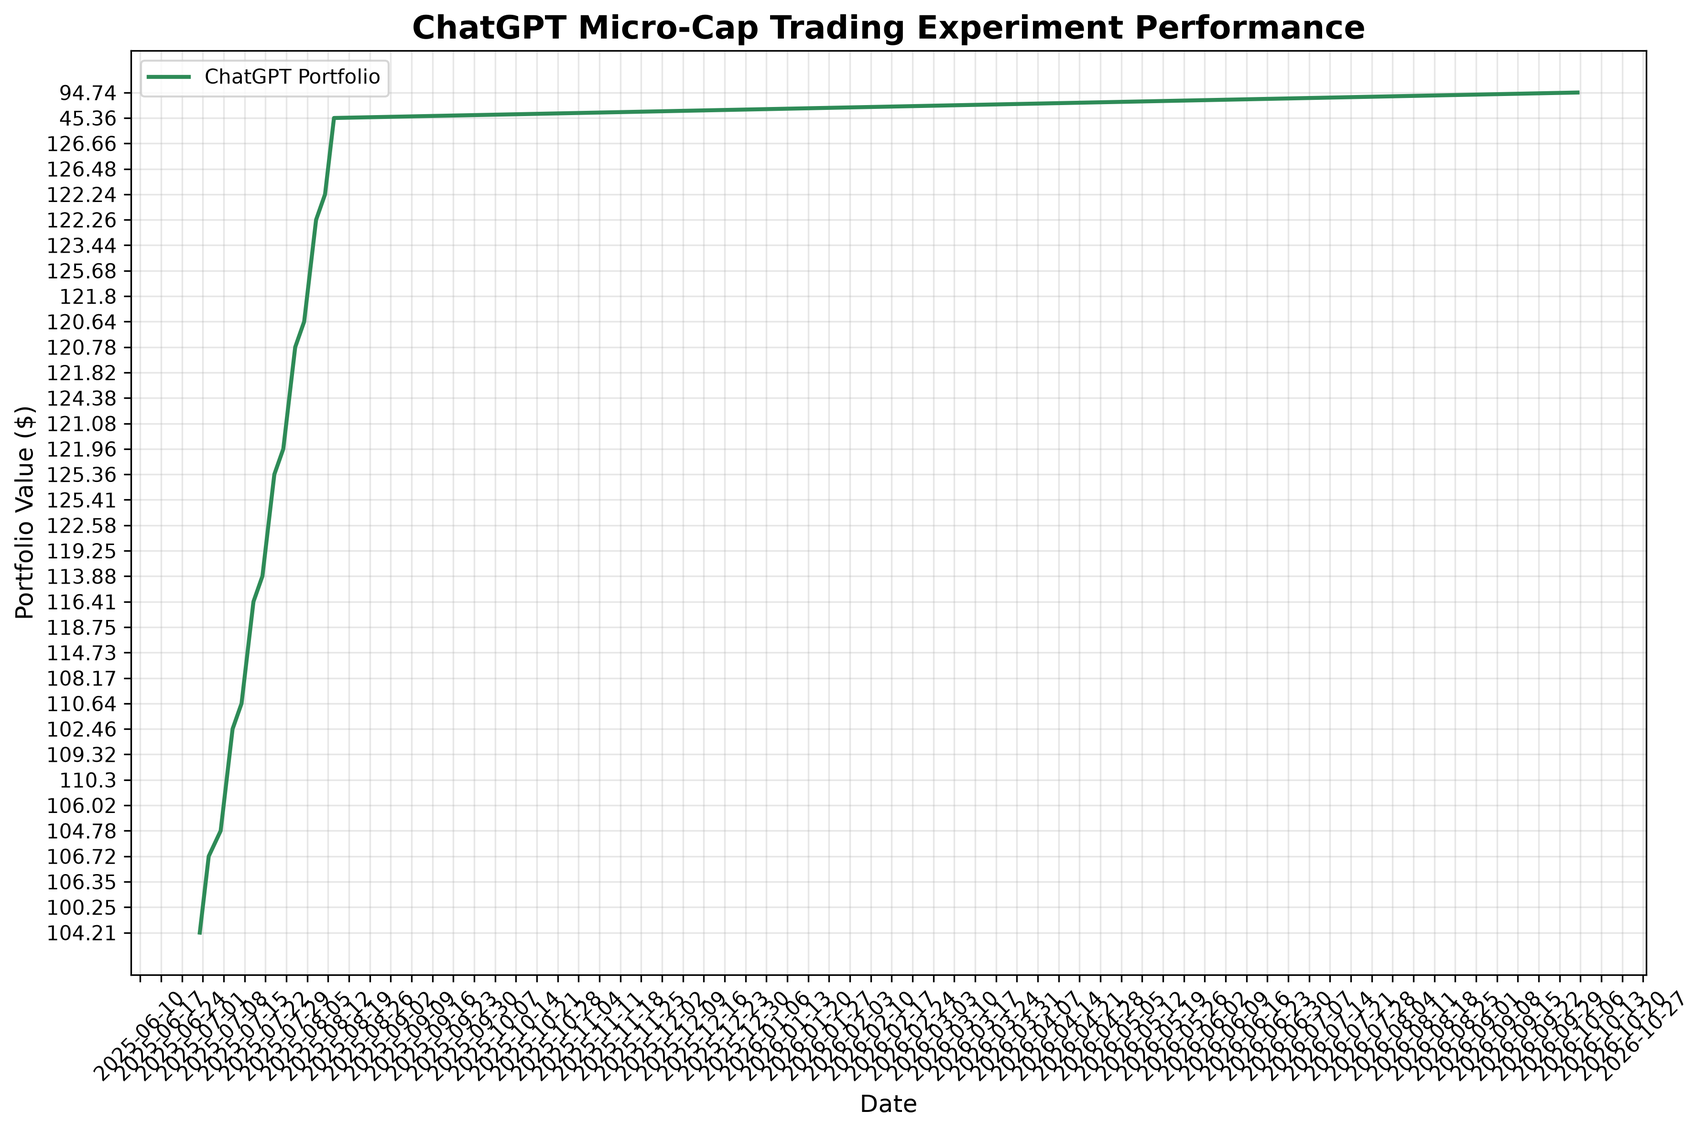
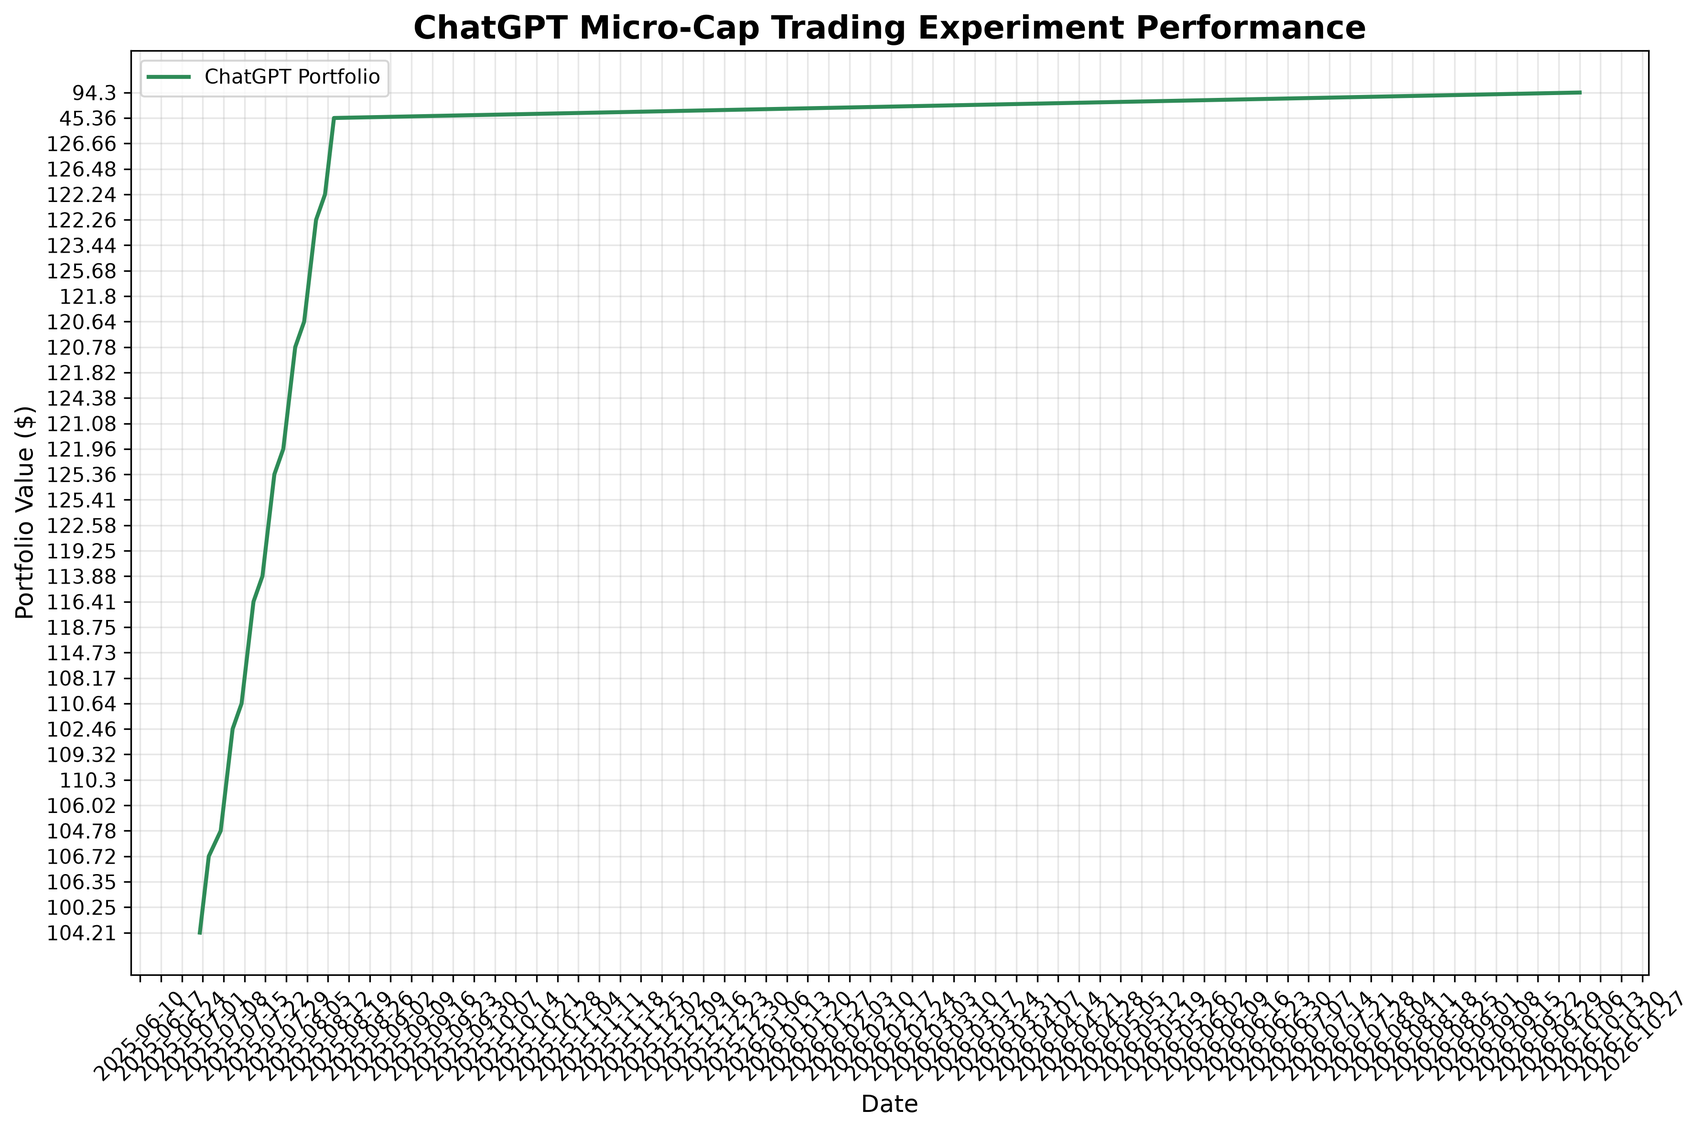
deploy: e15cad030d70fb3fbb51f9df6e22fa70c2f175c0

diff --git a/index.html b/index.html
@@ -101,11 +101,11 @@
                 <div class="stat-label">Total Equity</div>
             </div>
             <div class="stat-card">
-                <div class="stat-value" id="total-trades">12</div>
+                <div class="stat-value" id="total-trades">13</div>
                 <div class="stat-label">Total Trades</div>
             </div>
             <div class="stat-card">
-                <div class="stat-value" id="last-updated">2026-10-05</div>
+                <div class="stat-value" id="last-updated">2026-10-06</div>
                 <div class="stat-label">Last Updated</div>
             </div>
         </div>
@@ -160,8 +160,8 @@
     
     <script>
         // Portfolio data
-        const portfolioData = JSON.parse("[{&quot;Date&quot;: &quot;2025-08-11&quot;, &quot;Ticker&quot;: &quot;ABEO&quot;, &quot;Shares&quot;: 4.0, &quot;Buy Price&quot;: 5.77, &quot;Cost Basis&quot;: 23.08, &quot;Stop Loss&quot;: 4.9, &quot;Current Price&quot;: 6.28, &quot;Total Value&quot;: 25.12, &quot;PnL&quot;: 2.04, &quot;Action&quot;: &quot;HOLD&quot;, &quot;Cash Balance&quot;: NaN, &quot;Total Equity&quot;: NaN}, {&quot;Date&quot;: &quot;2025-08-11&quot;, &quot;Ticker&quot;: &quot;ACTU&quot;, &quot;Shares&quot;: 6.0, &quot;Buy Price&quot;: 5.75, &quot;Cost Basis&quot;: 34.5, &quot;Stop Loss&quot;: 4.89, &quot;Current Price&quot;: 8.01, &quot;Total Value&quot;: 48.06, &quot;PnL&quot;: 13.56, &quot;Action&quot;: &quot;HOLD&quot;, &quot;Cash Balance&quot;: NaN, &quot;Total Equity&quot;: NaN}, {&quot;Date&quot;: &quot;2025-08-11&quot;, &quot;Ticker&quot;: &quot;ESPR&quot;, &quot;Shares&quot;: 2.0, &quot;Buy Price&quot;: 1.91, &quot;Cost Basis&quot;: 3.82, &quot;Stop Loss&quot;: 1.6, &quot;Current Price&quot;: 1.85, &quot;Total Value&quot;: 3.7, &quot;PnL&quot;: -0.12, &quot;Action&quot;: &quot;HOLD&quot;, &quot;Cash Balance&quot;: NaN, &quot;Total Equity&quot;: NaN}, {&quot;Date&quot;: &quot;2025-08-11&quot;, &quot;Ticker&quot;: &quot;TOTAL&quot;, &quot;Shares&quot;: NaN, &quot;Buy Price&quot;: NaN, &quot;Cost Basis&quot;: NaN, &quot;Stop Loss&quot;: NaN, &quot;Current Price&quot;: NaN, &quot;Total Value&quot;: 76.88, &quot;PnL&quot;: 15.48, &quot;Action&quot;: NaN, &quot;Cash Balance&quot;: 45.36, &quot;Total Equity&quot;: &quot;122.24&quot;}, {&quot;Date&quot;: &quot;2025-08-12&quot;, &quot;Ticker&quot;: &quot;ABEO&quot;, &quot;Shares&quot;: 4.0, &quot;Buy Price&quot;: 5.77, &quot;Cost Basis&quot;: 23.08, &quot;Stop Loss&quot;: 4.9, &quot;Current Price&quot;: 6.38, &quot;Total Value&quot;: 25.52, &quot;PnL&quot;: 2.44, &quot;Action&quot;: &quot;HOLD&quot;, &quot;Cash Balance&quot;: NaN, &quot;Total Equity&quot;: NaN}, {&quot;Date&quot;: &quot;2025-08-12&quot;, &quot;Ticker&quot;: &quot;ACTU&quot;, &quot;Shares&quot;: 6.0, &quot;Buy Price&quot;: 5.75, &quot;Cost Basis&quot;: 34.5, &quot;Stop Loss&quot;: 4.89, &quot;Current Price&quot;: 8.67, &quot;Total Value&quot;: 52.02, &quot;PnL&quot;: 17.52, &quot;Action&quot;: &quot;HOLD&quot;, &quot;Cash Balance&quot;: NaN, &quot;Total Equity&quot;: NaN}, {&quot;Date&quot;: &quot;2025-08-12&quot;, &quot;Ticker&quot;: &quot;ESPR&quot;, &quot;Shares&quot;: 2.0, &quot;Buy Price&quot;: 1.91, &quot;Cost Basis&quot;: 3.82, &quot;Stop Loss&quot;: 1.6, &quot;Current Price&quot;: 1.79, &quot;Total Value&quot;: 3.58, &quot;PnL&quot;: -0.24, &quot;Action&quot;: &quot;HOLD&quot;, &quot;Cash Balance&quot;: NaN, &quot;Total Equity&quot;: NaN}, {&quot;Date&quot;: &quot;2025-08-12&quot;, &quot;Ticker&quot;: &quot;TOTAL&quot;, &quot;Shares&quot;: NaN, &quot;Buy Price&quot;: NaN, &quot;Cost Basis&quot;: NaN, &quot;Stop Loss&quot;: NaN, &quot;Current Price&quot;: NaN, &quot;Total Value&quot;: 81.12, &quot;PnL&quot;: 19.72, &quot;Action&quot;: NaN, &quot;Cash Balance&quot;: 45.36, &quot;Total Equity&quot;: &quot;126.48&quot;}, {&quot;Date&quot;: &quot;2025-08-13&quot;, &quot;Ticker&quot;: &quot;ABEO&quot;, &quot;Shares&quot;: 4.0, &quot;Buy Price&quot;: 5.77, &quot;Cost Basis&quot;: 23.08, &quot;Stop Loss&quot;: 4.9, &quot;Current Price&quot;: 6.56, &quot;Total Value&quot;: 26.24, &quot;PnL&quot;: 3.16, &quot;Action&quot;: &quot;HOLD&quot;, &quot;Cash Balance&quot;: NaN, &quot;Total Equity&quot;: NaN}, {&quot;Date&quot;: &quot;2025-08-13&quot;, &quot;Ticker&quot;: &quot;ACTU&quot;, &quot;Shares&quot;: 6.0, &quot;Buy Price&quot;: 5.75, &quot;Cost Basis&quot;: 34.5, &quot;Stop Loss&quot;: 4.89, &quot;Current Price&quot;: 8.53, &quot;Total Value&quot;: 51.18, &quot;PnL&quot;: 16.68, &quot;Action&quot;: &quot;HOLD&quot;, &quot;Cash Balance&quot;: NaN, &quot;Total Equity&quot;: NaN}, {&quot;Date&quot;: &quot;2025-08-13&quot;, &quot;Ticker&quot;: &quot;ESPR&quot;, &quot;Shares&quot;: 2.0, &quot;Buy Price&quot;: 1.91, &quot;Cost Basis&quot;: 3.82, &quot;Stop Loss&quot;: 1.6, &quot;Current Price&quot;: 1.94, &quot;Total Value&quot;: 3.88, &quot;PnL&quot;: 0.06, &quot;Action&quot;: &quot;HOLD&quot;, &quot;Cash Balance&quot;: NaN, &quot;Total Equity&quot;: NaN}, {&quot;Date&quot;: &quot;2025-08-13&quot;, &quot;Ticker&quot;: &quot;TOTAL&quot;, &quot;Shares&quot;: NaN, &quot;Buy Price&quot;: NaN, &quot;Cost Basis&quot;: NaN, &quot;Stop Loss&quot;: NaN, &quot;Current Price&quot;: NaN, &quot;Total Value&quot;: 81.3, &quot;PnL&quot;: 19.9, &quot;Action&quot;: NaN, &quot;Cash Balance&quot;: 45.36, &quot;Total Equity&quot;: &quot;126.66&quot;}, {&quot;Date&quot;: &quot;2025-08-14&quot;, &quot;Ticker&quot;: &quot;ABEO&quot;, &quot;Shares&quot;: 4.0, &quot;Buy Price&quot;: 5.77, &quot;Cost Basis&quot;: 23.08, &quot;Stop Loss&quot;: 4.9, &quot;Current Price&quot;: NaN, &quot;Total Value&quot;: NaN, &quot;PnL&quot;: NaN, &quot;Action&quot;: &quot;NO DATA&quot;, &quot;Cash Balance&quot;: NaN, &quot;Total Equity&quot;: NaN}, {&quot;Date&quot;: &quot;2025-08-14&quot;, &quot;Ticker&quot;: &quot;ACTU&quot;, &quot;Shares&quot;: 6.0, &quot;Buy Price&quot;: 5.75, &quot;Cost Basis&quot;: 34.5, &quot;Stop Loss&quot;: 4.89, &quot;Current Price&quot;: NaN, &quot;Total Value&quot;: NaN, &quot;PnL&quot;: NaN, &quot;Action&quot;: &quot;NO DATA&quot;, &quot;Cash Balance&quot;: NaN, &quot;Total Equity&quot;: NaN}, {&quot;Date&quot;: &quot;2025-08-14&quot;, &quot;Ticker&quot;: &quot;ESPR&quot;, &quot;Shares&quot;: 2.0, &quot;Buy Price&quot;: 1.91, &quot;Cost Basis&quot;: 3.82, &quot;Stop Loss&quot;: 1.6, &quot;Current Price&quot;: NaN, &quot;Total Value&quot;: NaN, &quot;PnL&quot;: NaN, &quot;Action&quot;: &quot;NO DATA&quot;, &quot;Cash Balance&quot;: NaN, &quot;Total Equity&quot;: NaN}, {&quot;Date&quot;: &quot;2025-08-14&quot;, &quot;Ticker&quot;: &quot;TOTAL&quot;, &quot;Shares&quot;: NaN, &quot;Buy Price&quot;: NaN, &quot;Cost Basis&quot;: NaN, &quot;Stop Loss&quot;: NaN, &quot;Current Price&quot;: NaN, &quot;Total Value&quot;: 0.0, &quot;PnL&quot;: 0.0, &quot;Action&quot;: NaN, &quot;Cash Balance&quot;: 45.36, &quot;Total Equity&quot;: &quot;45.36&quot;}, {&quot;Date&quot;: &quot;2026-10-05&quot;, &quot;Ticker&quot;: &quot;ABEO&quot;, &quot;Shares&quot;: 4.0, &quot;Buy Price&quot;: 5.77, &quot;Cost Basis&quot;: 23.08, &quot;Stop Loss&quot;: 4.9, &quot;Current Price&quot;: 5.01, &quot;Total Value&quot;: 20.04, &quot;PnL&quot;: -3.04, &quot;Action&quot;: &quot;HOLD&quot;, &quot;Cash Balance&quot;: NaN, &quot;Total Equity&quot;: NaN}, {&quot;Date&quot;: &quot;2026-10-05&quot;, &quot;Ticker&quot;: &quot;ACTU&quot;, &quot;Shares&quot;: 6.0, &quot;Buy Price&quot;: 5.75, &quot;Cost Basis&quot;: 34.5, &quot;Stop Loss&quot;: 4.89, &quot;Current Price&quot;: 4.89, &quot;Total Value&quot;: 29.34, &quot;PnL&quot;: -5.16, &quot;Action&quot;: &quot;SELL - Stop Loss Triggered&quot;, &quot;Cash Balance&quot;: NaN, &quot;Total Equity&quot;: NaN}, {&quot;Date&quot;: &quot;2026-10-05&quot;, &quot;Ticker&quot;: &quot;ESPR&quot;, &quot;Shares&quot;: 2.0, &quot;Buy Price&quot;: 1.91, &quot;Cost Basis&quot;: 3.82, &quot;Stop Loss&quot;: 1.6, &quot;Current Price&quot;: NaN, &quot;Total Value&quot;: NaN, &quot;PnL&quot;: NaN, &quot;Action&quot;: &quot;NO DATA&quot;, &quot;Cash Balance&quot;: NaN, &quot;Total Equity&quot;: NaN}, {&quot;Date&quot;: &quot;2026-10-05&quot;, &quot;Ticker&quot;: &quot;TOTAL&quot;, &quot;Shares&quot;: NaN, &quot;Buy Price&quot;: NaN, &quot;Cost Basis&quot;: NaN, &quot;Stop Loss&quot;: NaN, &quot;Current Price&quot;: NaN, &quot;Total Value&quot;: 20.04, &quot;PnL&quot;: -3.04, &quot;Action&quot;: NaN, &quot;Cash Balance&quot;: 74.7, &quot;Total Equity&quot;: &quot;94.74&quot;}]");
-        const tradeData = JSON.parse("[{&quot;Date&quot;: &quot;2025-07-08&quot;, &quot;Ticker&quot;: &quot;IINN&quot;, &quot;Shares Bought&quot;: 20.0, &quot;Buy Price&quot;: 1.5, &quot;Cost Basis&quot;: 30.0, &quot;PnL&quot;: 0.0, &quot;Reason&quot;: &quot;MANUAL BUY - New position&quot;, &quot;Shares Sold&quot;: NaN, &quot;Sell Price&quot;: NaN}, {&quot;Date&quot;: &quot;2025-07-21&quot;, &quot;Ticker&quot;: &quot;CADL&quot;, &quot;Shares Bought&quot;: NaN, &quot;Buy Price&quot;: NaN, &quot;Cost Basis&quot;: 25.2, &quot;PnL&quot;: 8.5, &quot;Reason&quot;: &quot;MANUAL SELL - GAIN CAPITAL FOR ACTU&quot;, &quot;Shares Sold&quot;: 5.0, &quot;Sell Price&quot;: 6.59}, {&quot;Date&quot;: &quot;2025-07-21&quot;, &quot;Ticker&quot;: &quot;ACTU&quot;, &quot;Shares Bought&quot;: 6.0, &quot;Buy Price&quot;: 5.75, &quot;Cost Basis&quot;: 34.5, &quot;PnL&quot;: 0.0, &quot;Reason&quot;: &quot;MANUAL BUY - New position&quot;, &quot;Shares Sold&quot;: NaN, &quot;Sell Price&quot;: NaN}, {&quot;Date&quot;: &quot;2025-07-28&quot;, &quot;Ticker&quot;: &quot;IINN&quot;, &quot;Shares Bought&quot;: NaN, &quot;Buy Price&quot;: NaN, &quot;Cost Basis&quot;: 9.0, &quot;PnL&quot;: -0.5400000000000009, &quot;Reason&quot;: &quot;MANUAL SELL - POSITION REDUCTION&quot;, &quot;Shares Sold&quot;: 6.0, &quot;Sell Price&quot;: 1.41}, {&quot;Date&quot;: &quot;2025-07-29&quot;, &quot;Ticker&quot;: &quot;AZTR&quot;, &quot;Shares Bought&quot;: NaN, &quot;Buy Price&quot;: NaN, &quot;Cost Basis&quot;: 13.75, &quot;PnL&quot;: -2.75, &quot;Reason&quot;: &quot;MANUAL SELL - DILUTION RISK&quot;, &quot;Shares Sold&quot;: 55.0, &quot;Sell Price&quot;: 0.2}, {&quot;Date&quot;: &quot;2025-08-01&quot;, &quot;Ticker&quot;: &quot;IINN&quot;, &quot;Shares Bought&quot;: 2.0, &quot;Buy Price&quot;: 1.74, &quot;Cost Basis&quot;: 3.48, &quot;PnL&quot;: 0.0, &quot;Reason&quot;: &quot;MANUAL BUY - New position&quot;, &quot;Shares Sold&quot;: NaN, &quot;Sell Price&quot;: NaN}, {&quot;Date&quot;: &quot;2025-08-01&quot;, &quot;Ticker&quot;: &quot;ABEO&quot;, &quot;Shares Bought&quot;: NaN, &quot;Buy Price&quot;: NaN, &quot;Cost Basis&quot;: 11.54, &quot;PnL&quot;: 1.200000000000001, &quot;Reason&quot;: &quot;MANUAL SELL - TRIM AFTER SUPPORT LOSS&quot;, &quot;Shares Sold&quot;: 2.0, &quot;Sell Price&quot;: 6.37}, {&quot;Date&quot;: &quot;2025-08-07&quot;, &quot;Ticker&quot;: &quot;ESPR&quot;, &quot;Shares Bought&quot;: 2.0, &quot;Buy Price&quot;: 1.91, &quot;Cost Basis&quot;: 3.82, &quot;PnL&quot;: 0.0, &quot;Reason&quot;: &quot;MANUAL BUY - New position&quot;, &quot;Shares Sold&quot;: NaN, &quot;Sell Price&quot;: NaN}, {&quot;Date&quot;: &quot;2025-08-08&quot;, &quot;Ticker&quot;: &quot;IINN&quot;, &quot;Shares Bought&quot;: NaN, &quot;Buy Price&quot;: NaN, &quot;Cost Basis&quot;: 1.5, &quot;PnL&quot;: -6.4, &quot;Reason&quot;: &quot;AUTOMATED SELL - STOPLOSS TRIGGERED&quot;, &quot;Shares Sold&quot;: 16.0, &quot;Sell Price&quot;: 1.1}, {&quot;Date&quot;: &quot;2026-10-05&quot;, &quot;Ticker&quot;: &quot;ACTU&quot;, &quot;Shares Bought&quot;: NaN, &quot;Buy Price&quot;: NaN, &quot;Cost Basis&quot;: 5.75, &quot;PnL&quot;: -5.16, &quot;Reason&quot;: &quot;AUTOMATED SELL - STOPLOSS TRIGGERED&quot;, &quot;Shares Sold&quot;: 6.0, &quot;Sell Price&quot;: 4.89}]");
+        const portfolioData = JSON.parse("[{&quot;Date&quot;: &quot;2025-08-11&quot;, &quot;Ticker&quot;: &quot;ABEO&quot;, &quot;Shares&quot;: 4.0, &quot;Buy Price&quot;: 5.77, &quot;Cost Basis&quot;: 23.08, &quot;Stop Loss&quot;: 4.9, &quot;Current Price&quot;: 6.28, &quot;Total Value&quot;: 25.12, &quot;PnL&quot;: 2.04, &quot;Action&quot;: &quot;HOLD&quot;, &quot;Cash Balance&quot;: NaN, &quot;Total Equity&quot;: NaN}, {&quot;Date&quot;: &quot;2025-08-11&quot;, &quot;Ticker&quot;: &quot;ACTU&quot;, &quot;Shares&quot;: 6.0, &quot;Buy Price&quot;: 5.75, &quot;Cost Basis&quot;: 34.5, &quot;Stop Loss&quot;: 4.89, &quot;Current Price&quot;: 8.01, &quot;Total Value&quot;: 48.06, &quot;PnL&quot;: 13.56, &quot;Action&quot;: &quot;HOLD&quot;, &quot;Cash Balance&quot;: NaN, &quot;Total Equity&quot;: NaN}, {&quot;Date&quot;: &quot;2025-08-11&quot;, &quot;Ticker&quot;: &quot;ESPR&quot;, &quot;Shares&quot;: 2.0, &quot;Buy Price&quot;: 1.91, &quot;Cost Basis&quot;: 3.82, &quot;Stop Loss&quot;: 1.6, &quot;Current Price&quot;: 1.85, &quot;Total Value&quot;: 3.7, &quot;PnL&quot;: -0.12, &quot;Action&quot;: &quot;HOLD&quot;, &quot;Cash Balance&quot;: NaN, &quot;Total Equity&quot;: NaN}, {&quot;Date&quot;: &quot;2025-08-11&quot;, &quot;Ticker&quot;: &quot;TOTAL&quot;, &quot;Shares&quot;: NaN, &quot;Buy Price&quot;: NaN, &quot;Cost Basis&quot;: NaN, &quot;Stop Loss&quot;: NaN, &quot;Current Price&quot;: NaN, &quot;Total Value&quot;: 76.88, &quot;PnL&quot;: 15.48, &quot;Action&quot;: NaN, &quot;Cash Balance&quot;: 45.36, &quot;Total Equity&quot;: &quot;122.24&quot;}, {&quot;Date&quot;: &quot;2025-08-12&quot;, &quot;Ticker&quot;: &quot;ABEO&quot;, &quot;Shares&quot;: 4.0, &quot;Buy Price&quot;: 5.77, &quot;Cost Basis&quot;: 23.08, &quot;Stop Loss&quot;: 4.9, &quot;Current Price&quot;: 6.38, &quot;Total Value&quot;: 25.52, &quot;PnL&quot;: 2.44, &quot;Action&quot;: &quot;HOLD&quot;, &quot;Cash Balance&quot;: NaN, &quot;Total Equity&quot;: NaN}, {&quot;Date&quot;: &quot;2025-08-12&quot;, &quot;Ticker&quot;: &quot;ACTU&quot;, &quot;Shares&quot;: 6.0, &quot;Buy Price&quot;: 5.75, &quot;Cost Basis&quot;: 34.5, &quot;Stop Loss&quot;: 4.89, &quot;Current Price&quot;: 8.67, &quot;Total Value&quot;: 52.02, &quot;PnL&quot;: 17.52, &quot;Action&quot;: &quot;HOLD&quot;, &quot;Cash Balance&quot;: NaN, &quot;Total Equity&quot;: NaN}, {&quot;Date&quot;: &quot;2025-08-12&quot;, &quot;Ticker&quot;: &quot;ESPR&quot;, &quot;Shares&quot;: 2.0, &quot;Buy Price&quot;: 1.91, &quot;Cost Basis&quot;: 3.82, &quot;Stop Loss&quot;: 1.6, &quot;Current Price&quot;: 1.79, &quot;Total Value&quot;: 3.58, &quot;PnL&quot;: -0.24, &quot;Action&quot;: &quot;HOLD&quot;, &quot;Cash Balance&quot;: NaN, &quot;Total Equity&quot;: NaN}, {&quot;Date&quot;: &quot;2025-08-12&quot;, &quot;Ticker&quot;: &quot;TOTAL&quot;, &quot;Shares&quot;: NaN, &quot;Buy Price&quot;: NaN, &quot;Cost Basis&quot;: NaN, &quot;Stop Loss&quot;: NaN, &quot;Current Price&quot;: NaN, &quot;Total Value&quot;: 81.12, &quot;PnL&quot;: 19.72, &quot;Action&quot;: NaN, &quot;Cash Balance&quot;: 45.36, &quot;Total Equity&quot;: &quot;126.48&quot;}, {&quot;Date&quot;: &quot;2025-08-13&quot;, &quot;Ticker&quot;: &quot;ABEO&quot;, &quot;Shares&quot;: 4.0, &quot;Buy Price&quot;: 5.77, &quot;Cost Basis&quot;: 23.08, &quot;Stop Loss&quot;: 4.9, &quot;Current Price&quot;: 6.56, &quot;Total Value&quot;: 26.24, &quot;PnL&quot;: 3.16, &quot;Action&quot;: &quot;HOLD&quot;, &quot;Cash Balance&quot;: NaN, &quot;Total Equity&quot;: NaN}, {&quot;Date&quot;: &quot;2025-08-13&quot;, &quot;Ticker&quot;: &quot;ACTU&quot;, &quot;Shares&quot;: 6.0, &quot;Buy Price&quot;: 5.75, &quot;Cost Basis&quot;: 34.5, &quot;Stop Loss&quot;: 4.89, &quot;Current Price&quot;: 8.53, &quot;Total Value&quot;: 51.18, &quot;PnL&quot;: 16.68, &quot;Action&quot;: &quot;HOLD&quot;, &quot;Cash Balance&quot;: NaN, &quot;Total Equity&quot;: NaN}, {&quot;Date&quot;: &quot;2025-08-13&quot;, &quot;Ticker&quot;: &quot;ESPR&quot;, &quot;Shares&quot;: 2.0, &quot;Buy Price&quot;: 1.91, &quot;Cost Basis&quot;: 3.82, &quot;Stop Loss&quot;: 1.6, &quot;Current Price&quot;: 1.94, &quot;Total Value&quot;: 3.88, &quot;PnL&quot;: 0.06, &quot;Action&quot;: &quot;HOLD&quot;, &quot;Cash Balance&quot;: NaN, &quot;Total Equity&quot;: NaN}, {&quot;Date&quot;: &quot;2025-08-13&quot;, &quot;Ticker&quot;: &quot;TOTAL&quot;, &quot;Shares&quot;: NaN, &quot;Buy Price&quot;: NaN, &quot;Cost Basis&quot;: NaN, &quot;Stop Loss&quot;: NaN, &quot;Current Price&quot;: NaN, &quot;Total Value&quot;: 81.3, &quot;PnL&quot;: 19.9, &quot;Action&quot;: NaN, &quot;Cash Balance&quot;: 45.36, &quot;Total Equity&quot;: &quot;126.66&quot;}, {&quot;Date&quot;: &quot;2025-08-14&quot;, &quot;Ticker&quot;: &quot;ABEO&quot;, &quot;Shares&quot;: 4.0, &quot;Buy Price&quot;: 5.77, &quot;Cost Basis&quot;: 23.08, &quot;Stop Loss&quot;: 4.9, &quot;Current Price&quot;: NaN, &quot;Total Value&quot;: NaN, &quot;PnL&quot;: NaN, &quot;Action&quot;: &quot;NO DATA&quot;, &quot;Cash Balance&quot;: NaN, &quot;Total Equity&quot;: NaN}, {&quot;Date&quot;: &quot;2025-08-14&quot;, &quot;Ticker&quot;: &quot;ACTU&quot;, &quot;Shares&quot;: 6.0, &quot;Buy Price&quot;: 5.75, &quot;Cost Basis&quot;: 34.5, &quot;Stop Loss&quot;: 4.89, &quot;Current Price&quot;: NaN, &quot;Total Value&quot;: NaN, &quot;PnL&quot;: NaN, &quot;Action&quot;: &quot;NO DATA&quot;, &quot;Cash Balance&quot;: NaN, &quot;Total Equity&quot;: NaN}, {&quot;Date&quot;: &quot;2025-08-14&quot;, &quot;Ticker&quot;: &quot;ESPR&quot;, &quot;Shares&quot;: 2.0, &quot;Buy Price&quot;: 1.91, &quot;Cost Basis&quot;: 3.82, &quot;Stop Loss&quot;: 1.6, &quot;Current Price&quot;: NaN, &quot;Total Value&quot;: NaN, &quot;PnL&quot;: NaN, &quot;Action&quot;: &quot;NO DATA&quot;, &quot;Cash Balance&quot;: NaN, &quot;Total Equity&quot;: NaN}, {&quot;Date&quot;: &quot;2025-08-14&quot;, &quot;Ticker&quot;: &quot;TOTAL&quot;, &quot;Shares&quot;: NaN, &quot;Buy Price&quot;: NaN, &quot;Cost Basis&quot;: NaN, &quot;Stop Loss&quot;: NaN, &quot;Current Price&quot;: NaN, &quot;Total Value&quot;: 0.0, &quot;PnL&quot;: 0.0, &quot;Action&quot;: NaN, &quot;Cash Balance&quot;: 45.36, &quot;Total Equity&quot;: &quot;45.36&quot;}, {&quot;Date&quot;: &quot;2026-10-06&quot;, &quot;Ticker&quot;: &quot;ABEO&quot;, &quot;Shares&quot;: 4.0, &quot;Buy Price&quot;: 5.77, &quot;Cost Basis&quot;: 23.08, &quot;Stop Loss&quot;: 4.9, &quot;Current Price&quot;: 4.9, &quot;Total Value&quot;: 19.6, &quot;PnL&quot;: -3.48, &quot;Action&quot;: &quot;SELL - Stop Loss Triggered&quot;, &quot;Cash Balance&quot;: NaN, &quot;Total Equity&quot;: NaN}, {&quot;Date&quot;: &quot;2026-10-06&quot;, &quot;Ticker&quot;: &quot;ACTU&quot;, &quot;Shares&quot;: 6.0, &quot;Buy Price&quot;: 5.75, &quot;Cost Basis&quot;: 34.5, &quot;Stop Loss&quot;: 4.89, &quot;Current Price&quot;: 4.89, &quot;Total Value&quot;: 29.34, &quot;PnL&quot;: -5.16, &quot;Action&quot;: &quot;SELL - Stop Loss Triggered&quot;, &quot;Cash Balance&quot;: NaN, &quot;Total Equity&quot;: NaN}, {&quot;Date&quot;: &quot;2026-10-06&quot;, &quot;Ticker&quot;: &quot;ESPR&quot;, &quot;Shares&quot;: 2.0, &quot;Buy Price&quot;: 1.91, &quot;Cost Basis&quot;: 3.82, &quot;Stop Loss&quot;: 1.6, &quot;Current Price&quot;: NaN, &quot;Total Value&quot;: NaN, &quot;PnL&quot;: NaN, &quot;Action&quot;: &quot;NO DATA&quot;, &quot;Cash Balance&quot;: NaN, &quot;Total Equity&quot;: NaN}, {&quot;Date&quot;: &quot;2026-10-06&quot;, &quot;Ticker&quot;: &quot;TOTAL&quot;, &quot;Shares&quot;: NaN, &quot;Buy Price&quot;: NaN, &quot;Cost Basis&quot;: NaN, &quot;Stop Loss&quot;: NaN, &quot;Current Price&quot;: NaN, &quot;Total Value&quot;: 0.0, &quot;PnL&quot;: 0.0, &quot;Action&quot;: NaN, &quot;Cash Balance&quot;: 94.3, &quot;Total Equity&quot;: &quot;94.3&quot;}]");
+        const tradeData = JSON.parse("[{&quot;Date&quot;: &quot;2025-07-21&quot;, &quot;Ticker&quot;: &quot;CADL&quot;, &quot;Shares Bought&quot;: NaN, &quot;Buy Price&quot;: NaN, &quot;Cost Basis&quot;: 25.2, &quot;PnL&quot;: 8.5, &quot;Reason&quot;: &quot;MANUAL SELL - GAIN CAPITAL FOR ACTU&quot;, &quot;Shares Sold&quot;: 5.0, &quot;Sell Price&quot;: 6.59}, {&quot;Date&quot;: &quot;2025-07-21&quot;, &quot;Ticker&quot;: &quot;ACTU&quot;, &quot;Shares Bought&quot;: 6.0, &quot;Buy Price&quot;: 5.75, &quot;Cost Basis&quot;: 34.5, &quot;PnL&quot;: 0.0, &quot;Reason&quot;: &quot;MANUAL BUY - New position&quot;, &quot;Shares Sold&quot;: NaN, &quot;Sell Price&quot;: NaN}, {&quot;Date&quot;: &quot;2025-07-28&quot;, &quot;Ticker&quot;: &quot;IINN&quot;, &quot;Shares Bought&quot;: NaN, &quot;Buy Price&quot;: NaN, &quot;Cost Basis&quot;: 9.0, &quot;PnL&quot;: -0.5400000000000009, &quot;Reason&quot;: &quot;MANUAL SELL - POSITION REDUCTION&quot;, &quot;Shares Sold&quot;: 6.0, &quot;Sell Price&quot;: 1.41}, {&quot;Date&quot;: &quot;2025-07-29&quot;, &quot;Ticker&quot;: &quot;AZTR&quot;, &quot;Shares Bought&quot;: NaN, &quot;Buy Price&quot;: NaN, &quot;Cost Basis&quot;: 13.75, &quot;PnL&quot;: -2.75, &quot;Reason&quot;: &quot;MANUAL SELL - DILUTION RISK&quot;, &quot;Shares Sold&quot;: 55.0, &quot;Sell Price&quot;: 0.2}, {&quot;Date&quot;: &quot;2025-08-01&quot;, &quot;Ticker&quot;: &quot;IINN&quot;, &quot;Shares Bought&quot;: 2.0, &quot;Buy Price&quot;: 1.74, &quot;Cost Basis&quot;: 3.48, &quot;PnL&quot;: 0.0, &quot;Reason&quot;: &quot;MANUAL BUY - New position&quot;, &quot;Shares Sold&quot;: NaN, &quot;Sell Price&quot;: NaN}, {&quot;Date&quot;: &quot;2025-08-01&quot;, &quot;Ticker&quot;: &quot;ABEO&quot;, &quot;Shares Bought&quot;: NaN, &quot;Buy Price&quot;: NaN, &quot;Cost Basis&quot;: 11.54, &quot;PnL&quot;: 1.200000000000001, &quot;Reason&quot;: &quot;MANUAL SELL - TRIM AFTER SUPPORT LOSS&quot;, &quot;Shares Sold&quot;: 2.0, &quot;Sell Price&quot;: 6.37}, {&quot;Date&quot;: &quot;2025-08-07&quot;, &quot;Ticker&quot;: &quot;ESPR&quot;, &quot;Shares Bought&quot;: 2.0, &quot;Buy Price&quot;: 1.91, &quot;Cost Basis&quot;: 3.82, &quot;PnL&quot;: 0.0, &quot;Reason&quot;: &quot;MANUAL BUY - New position&quot;, &quot;Shares Sold&quot;: NaN, &quot;Sell Price&quot;: NaN}, {&quot;Date&quot;: &quot;2025-08-08&quot;, &quot;Ticker&quot;: &quot;IINN&quot;, &quot;Shares Bought&quot;: NaN, &quot;Buy Price&quot;: NaN, &quot;Cost Basis&quot;: 1.5, &quot;PnL&quot;: -6.4, &quot;Reason&quot;: &quot;AUTOMATED SELL - STOPLOSS TRIGGERED&quot;, &quot;Shares Sold&quot;: 16.0, &quot;Sell Price&quot;: 1.1}, {&quot;Date&quot;: &quot;2026-10-06&quot;, &quot;Ticker&quot;: &quot;ABEO&quot;, &quot;Shares Bought&quot;: NaN, &quot;Buy Price&quot;: NaN, &quot;Cost Basis&quot;: 5.77, &quot;PnL&quot;: -3.48, &quot;Reason&quot;: &quot;AUTOMATED SELL - STOPLOSS TRIGGERED&quot;, &quot;Shares Sold&quot;: 4.0, &quot;Sell Price&quot;: 4.9}, {&quot;Date&quot;: &quot;2026-10-06&quot;, &quot;Ticker&quot;: &quot;ACTU&quot;, &quot;Shares Bought&quot;: NaN, &quot;Buy Price&quot;: NaN, &quot;Cost Basis&quot;: 5.75, &quot;PnL&quot;: -5.16, &quot;Reason&quot;: &quot;AUTOMATED SELL - STOPLOSS TRIGGERED&quot;, &quot;Shares Sold&quot;: 6.0, &quot;Sell Price&quot;: 4.89}]");
         
         // Update total equity
         if (portfolioData.length > 0) {
